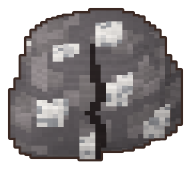
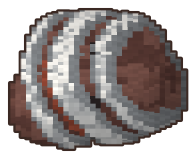
Ore nodes redrawn: no speckled stone (the look of block games' ores)
Each ore is a rounded boulder with its ore growing out of it in big shapes of its own: copper in fat
bunched nodules on sandstone, iron as a vein of metal ribs across rust-stained rock, lumen crystal as
a cluster of glowing prisms bursting from slate, obsidian as glossy black glass shards with violet
edges on a basalt bed. Nuggets to match; chips take the new rock colours.

Claude-Session: https://claude.ai/code/session_01HANmFDddYbzo6K9KzGZmoK

diff --git a/flutter/lib/features/village/mining.dart b/flutter/lib/features/village/mining.dart
@@ -27,16 +27,16 @@ const oreTier = {'copper': 1, 'iron': 2, 'lumen': 3, 'obsidian': 4};
 
 /// The rock's colours (chips) and the ore's (sparks of it), per ore.
 const _stone = {
-  'copper': [Color(0xFF8E8A86), Color(0xFF7B7773), Color(0xFFA39E98)],
-  'iron': [Color(0xFF7D7A80), Color(0xFF6B6870), Color(0xFF8F8B93)],
-  'lumen': [Color(0xFF6E6A78), Color(0xFF5E5A68), Color(0xFF7F7A8A)],
-  'obsidian': [Color(0xFF4A4550), Color(0xFF3C3742), Color(0xFF57525E)],
+  'copper': [Color(0xFFBFA07C), Color(0xFFAE8F6C), Color(0xFFCCAE8A)], // sandstone
+  'iron': [Color(0xFF6E4A44), Color(0xFF5E3E3A), Color(0xFF7C5650)], // rust-stained
+  'lumen': [Color(0xFF5A5F72), Color(0xFF4E5366), Color(0xFF666B80)], // slate
+  'obsidian': [Color(0xFF3E3A42), Color(0xFF35313A), Color(0xFF47434C)], // basalt
 };
 const _ore = {
   'copper': [Color(0xFFD9844A), Color(0xFFF0A56A)],
-  'iron': [Color(0xFFC9CDD6), Color(0xFFE6E9EF)],
+  'iron': [Color(0xFFB9C0C8), Color(0xFFEEF2F6)],
   'lumen': [Color(0xFF9FF0DA), Color(0xFFD8FFF4)],
-  'obsidian': [Color(0xFF5B3B6E), Color(0xFF9A6BC0)],
+  'obsidian': [Color(0xFF251C2C), Color(0xFF9A6BC0)],
 };
 const oreName = {'copper': 'Copper', 'iron': 'Iron', 'lumen': 'Lumen crystal', 'obsidian': 'Obsidian'};
 

diff --git a/tools/art/mining_art.py b/tools/art/mining_art.py
@@ -42,101 +42,174 @@ def _lump(M, c, half, p=3.0):
     return (np.abs((M.X - cx) / a) ** p + np.abs((M.Y - cy) / b) ** p + np.abs((M.Z - cz) / cc) ** p) < 1.0
 
 
-# where the ore shows on the rock: (x, y, z, size) on its faces toward you and on top
-SEAMS = ((-2.6, 3.6, 3.3, 1.15), (1.2, 4.8, 2.9, 1.0), (3.4, 2.4, 2.6, 0.95), (-0.4, 1.6, 3.9, 0.9), (-3.9, 1.4, 1.9, 0.8),
-         (0.6, 6.6, 0.4, 1.0), (-1.8, 5.9, 1.2, 0.8), (2.9, 4.4, -0.8, 0.85), (-3.4, 4.6, -1.0, 0.75))
-# which seams are gone by each state (knocked out with the chunk, or flown out as nuggets)
-GONE = {0: (), 1: (), 2: (1, 2), 3: tuple(range(len(SEAMS)))}
+def _boulder(M, grow=0.0):
+    """The rock: a few rounded blocks run together, low and wide (never a cube)."""
+    g = 1.0 + grow
+    return ((_lump(M, (0, 2.9, 0), (4.6 * g, 3.0 * g, 4.0 * g), 2.6) | _lump(M, (-2.5, 1.8, 1.3), (2.9 * g, 2.0 * g, 2.7 * g), 2.4) |
+             _lump(M, (2.7, 1.6, -0.6), (2.7 * g, 1.8 * g, 2.9 * g), 2.4)) & (M.Y >= 0))
+
+
+def _cracks(M, rock, stage):
+    """Cracks over the face toward you, from where the head lands (low and to the front)."""
+    X, Y, Z = M.X, M.Y, M.Z
+    lines = [[(-0.2, 5.8), (0.4, 4.4), (-0.3, 3.2), (0.5, 1.8), (0.0, 0.3)]]
+    if stage == 2:
+        lines += [[(0.4, 4.4), (2.4, 3.8), (3.8, 2.4)], [(-0.3, 3.2), (-2.6, 2.6), (-4.0, 1.2)], [(0.5, 1.8), (2.4, 0.8)]]
+    crack = np.zeros(M.m.shape, bool)
+    w = 0.3 if stage == 1 else 0.45
+    for ln in lines:
+        for (x0, y0), (x1, y1) in zip(ln, ln[1:]):
+            t = np.clip(((X - x0) * (x1 - x0) + (Y - y0) * (y1 - y0)) / ((x1 - x0) ** 2 + (y1 - y0) ** 2), 0, 1)
+            crack |= np.hypot(X - (x0 + t * (x1 - x0)), Y - (y0 + t * (y1 - y0))) < w
+    crack &= rock & (Z > 0.5) & (M.m > 0)
+    if stage == 2:
+        M.m[crack & ~np.roll(M.m > 0, -1, 2)] = 0          # the deepest cracks open
+    M.set(crack & (M.m > 0), '#2A2426')
+
+
+def _prism(M, base, d, r, length):
+    """A crystal: a column from [base] along [d] that comes to a point (faceted: a diamond cross-section)."""
+    X, Y, Z = M.X, M.Y, M.Z
+    d = np.asarray(d, float) / np.linalg.norm(d)
+    a = np.cross(d, [0.0, 0.0, 1.0] if abs(d[2]) < 0.9 else [1.0, 0.0, 0.0])
+    a /= np.linalg.norm(a)
+    b = np.cross(d, a)
+    px, py, pz = X - base[0], Y - base[1], Z - base[2]
+    t = px * d[0] + py * d[1] + pz * d[2]
+    u = np.abs(px * a[0] + py * a[1] + pz * a[2])
+    v = np.abs(px * b[0] + py * b[1] + pz * b[2])
+    taper = np.clip((length - t) / (length * 0.32), 0, 1)        # the last third narrows to the tip
+    return (t > -0.4) & (t < length) & (u + v < r * taper + 0.1)
+
+
+def _flake(M, c, n, r, thick=0.32, spin=0.0):
+    """A flake of volcanic glass: a thin angular shard (a diamond outline in its own plane, longer one
+    way), thickest in the middle and sharp at its rim."""
+    X, Y, Z = M.X, M.Y, M.Z
+    n = np.asarray(n, float) / np.linalg.norm(n)
+    a = np.cross(n, [0.0, 1.0, 0.0] if abs(n[1]) < 0.9 else [1.0, 0.0, 0.0])
+    a /= np.linalg.norm(a)
+    b = np.cross(n, a)
+    a, b = a * np.cos(spin) + b * np.sin(spin), b * np.cos(spin) - a * np.sin(spin)
+    px, py, pz = X - c[0], Y - c[1], Z - c[2]
+    h = px * n[0] + py * n[1] + pz * n[2]
+    u = np.abs(px * a[0] + py * a[1] + pz * a[2]) / (r * 1.3)
+    v = np.abs(px * b[0] + py * b[1] + pz * b[2]) / (r * 0.8)
+    q = u + v
+    return (q < 1.0) & (np.abs(h) < thick * (1 - q ** 2) + 0.06), q
+
+
+ROCK = {   # each ore's rock: none of them a grey stone with specks
+    'copper': ['#BFA07C', '#AE8F6C', '#CCAE8A'],          # warm sandstone
+    'iron': ['#6E4A44', '#5E3E3A', '#7C5650'],            # dark, rust-stained
+    'lumen': ['#5A5F72', '#4E5366', '#666B80'],           # slate blue
+    'obsidian': ['#3E3A42', '#35313A', '#47434C'],        # basalt
+}
+COPPER = ['#D9844A', '#C46B34', '#E8945A']
+IRON_SILVER = ['#B9C0C8', '#A3AAB3', '#CDD3DA']
+IRON_RUST = ['#9A4B3A', '#8A4232']
+LUMEN = ['#9FF0DA', '#7FE3C8', '#C8FFEF']
+GLASS = ['#1E1724', '#251C2C', '#2E2338']
 
 
 def ore_node(kind, stage, seed=7):
-    """The node in [stage] (0 whole, 1 chipped, 2 cracked, 3 burst): a chunky boulder of a few rounded
-    blocks, banded, with the ore standing proud of it in clusters (copper with green malachite stains
-    round it, iron in bright blocky chunks, lumen as glowing crystal points, obsidian as glassy shards)."""
-    stone, ore, glow, _ = ORES[kind]
-    M = Model((-7, -1, -7), (7, 11, 7), [], res=3)
+    """The node in [stage] (0 whole, 1 chipped, 2 cracked, 3 burst). The ore is never specks in stone:
+    copper bulges out of sandstone in fat rounded nodules; iron runs through dark rock in bands with
+    bright metal ridges; lumen crystal bursts from the top in a cluster of glowing prisms; obsidian is a
+    heap of glossy black glass flakes with a violet sheen at their edges."""
+    M = Model((-7, -1, -7), (7, 12, 7), [], res=3)
     P = CPainter(M, seed)
     rng = np.random.default_rng(seed)
     X, Y, Z = M.X, M.Y, M.Z
-    rock = (_lump(M, (0, 3.3, 0), (4.6, 3.5, 4.0)) | _lump(M, (-2.4, 2.0, 1.4), (2.9, 2.2, 2.7)) |
-            _lump(M, (2.8, 1.7, -0.8), (2.6, 1.9, 2.8)) | _lump(M, (0.6, 5.7, -0.4), (2.8, 1.6, 2.5))) & (Y >= 0)
+    rock = _boulder(M)
     if stage == 3:
-        rock &= Y < 1.5 + 0.5 * np.sin(X * 1.7) + 0.3 * np.cos(Z * 2.1)      # the stump
-    band = (np.floor(Y * 1.1 + 0.6 * np.sin(X * 0.7 + Z * 0.4)).astype(int) % 3)
-    dark = [stone[1]] + stone[1:2]
-    for k, cols in enumerate((stone, dark, stone)):
-        P.fill(rock & (band == k), cols, cell=(1.0, 0.67, 1.0))
+        rock &= Y < 1.4 + 0.5 * np.sin(X * 1.7) + 0.3 * np.cos(Z * 2.1)   # the stump
     if stage == 2:
-        rock &= ~(((X - 3.2) ** 2 + (Y - 6.0) ** 2 + (Z - 2.0) ** 2) < 2.7 ** 2)
-        M.m[~rock] = 0
-    # the ore, proud of the rock
-    for i, (x, y, z, r) in enumerate(SEAMS):
-        if i in GONE[stage] or y > (1.5 if stage == 3 else 99):
-            continue
-        d = np.array([x, y - (3.0 if kind in ('copper', 'iron') else 0.5), z])     # crystals and shards point up and out
-        d = d / np.linalg.norm(d)
-        cx, cy, cz = x + d[0] * 0.35, y + d[1] * 0.35, z + d[2] * 0.35
-        if kind == 'copper':                                   # rounded nodules
-            blob = ((X - cx) ** 2 + (Y - cy) ** 2 + (Z - cz) ** 2) < r ** 2
-            blob |= ((X - cx - 0.5 * r) ** 2 + (Y - cy + 0.3 * r) ** 2 + (Z - cz) ** 2) < (0.6 * r) ** 2
-            stain = (((X - cx) ** 2 + (Y - cy) ** 2 + (Z - cz) ** 2) < (r + 0.6) ** 2) & rock & (rng.random(M.m.shape) < 0.2)
-            P.fill(stain & (M.m > 0), ['#3E9E6E', '#57B784', '#4C8F67'], cell=0.34)
-        elif kind == 'iron':                                   # blocky chunks
-            blob = (np.abs(X - cx) < r * 0.8) & (np.abs(Y - cy) < r * 0.7) & (np.abs(Z - cz) < r * 0.8)
-            blob |= (np.abs(X - cx - 0.6 * r) < r * 0.45) & (np.abs(Y - cy - 0.5 * r) < r * 0.45) & (np.abs(Z - cz) < r * 0.5)
-        else:                                                  # crystal points / glass shards, along the way out
-            t = (X - x) * d[0] + (Y - y) * d[1] + (Z - z) * d[2]
-            perp = np.sqrt(np.maximum((X - x) ** 2 + (Y - y) ** 2 + (Z - z) ** 2 - t ** 2, 0))
-            ln = r * (2.9 if kind == 'lumen' else 2.5)
-            blob = (t > -0.6) & (t < ln) & (perp < r * 0.7 * (1 - np.clip(t / ln, 0, 1) ** 1.4) + 0.15)
-            if kind == 'obsidian':
-                blob &= (np.abs((X - x) * d[2] - (Z - z) * d[0]) < r * 0.6)    # flat, like a flake
-        if glow:
-            P.fill(blob, ore, glow=glow, cell=0.34)
-        else:
-            P.fill(blob, ore, cell=0.34)
-        hi = blob & ~np.roll(blob, -1, 1)                      # the top of each piece catches the light
-        M.set(hi & (rng.random(M.m.shape) < 0.5), ore[2])
+        rock &= ~(((X - 3.0) ** 2 + (Y - 4.6) ** 2 + (Z - 2.0) ** 2) < 2.4 ** 2)   # a chunk knocked off
+    band = np.floor(Y * 1.0 + 0.5 * np.sin(X * 0.6 + Z * 0.4)).astype(int) % 2
+    P.fill(rock & (band == 0), ROCK[kind], cell=(1.0, 0.67, 1.0))
+    P.fill(rock & (band == 1), ROCK[kind][1:] + ROCK[kind][1:], cell=(1.0, 0.67, 1.0))
+    keep = (lambda i: True) if stage < 2 else (lambda i: i % 3 != 1) if stage == 2 else (lambda i: False)
+    if kind == 'copper':
+        nods = ((-2.5, 3.2, 2.9, 1.9), (1.5, 4.7, 2.4, 1.7), (3.6, 2.0, 2.7, 1.5), (-0.4, 1.5, 3.9, 1.4), (0.4, 5.9, -0.4, 1.8),
+                (-3.9, 3.8, -1.2, 1.4), (3.2, 4.2, -1.9, 1.3), (-1.2, 5.6, 1.4, 1.2))
+        for i, (x, y, z, r) in enumerate(nods):
+            if not keep(i):
+                continue
+            blob = ((X - x) ** 2 + (Y - y) ** 2 + (Z - z) ** 2) < r ** 2
+            blob |= ((X - x - 0.6 * r) ** 2 + (Y - y + 0.35 * r) ** 2 + (Z - z + 0.2) ** 2) < (0.62 * r) ** 2   # bunched, like grapes
+            blob |= ((X - x + 0.5 * r) ** 2 + (Y - y - 0.4 * r) ** 2 + (Z - z + 0.3) ** 2) < (0.55 * r) ** 2
+            P.fill(blob & (M.m == 0) | blob & rock, COPPER, cell=0.34)
+            top = blob & ~np.roll(blob, -1, 1)
+            M.set(top & (rng.random(M.m.shape) < 0.6), '#FFC48E')            # sun on their tops
+            M.set(blob & ~np.roll(blob, 1, 1) & (Y > 0.4), '#8A4420')         # dark undersides
+    elif kind == 'iron':   # a vein of metal running across the rock, standing proud of it in thick ribs
+        out = _boulder(M, 0.12) & (Y >= 0)
+        if stage == 3:
+            out &= Y < 1.7
+        if stage == 2:
+            out &= ~(((X - 3.0) ** 2 + (Y - 4.6) ** 2 + (Z - 2.0) ** 2) < 2.6 ** 2)
+        n = np.array([0.75, 0.6, 0.28]) / np.linalg.norm([0.75, 0.6, 0.28])
+        dd = X * n[0] + (Y - 3.0) * n[1] + Z * n[2]
+        for c, w in ((-1.6, 0.55), (0.6, 0.75), (2.6, 0.45)):
+            rib = out & (np.abs(dd - c) < w)
+            P.fill(rib, IRON_SILVER, cell=0.5)
+            M.set(rib & ~np.roll(rib, -1, 1) & (rng.random(M.m.shape) < 0.6), '#EEF2F6')   # catching the light
+            M.set(rib & (np.abs(dd - c) > w - 0.2), '#7E858E')                             # its darker edges
+        P.fill(rock & (np.abs(dd + 0.5) < 0.3) & ~np.roll(rock, -1, 2), IRON_RUST, cell=0.67)   # rust weeping between
+    elif kind == 'lumen':
+        crown = ((0.0, 4.6, 0.2, (0.0, 1.0, 0.15), 1.1, 5.2), (-1.4, 4.2, 0.9, (-0.45, 1.0, 0.3), 0.9, 4.0), (1.5, 4.3, 0.6, (0.5, 1.0, 0.2), 0.95, 4.3),
+                 (0.3, 4.2, -1.3, (0.1, 1.0, -0.45), 0.8, 3.4), (-0.6, 4.0, 2.0, (-0.1, 0.8, 0.7), 0.75, 2.9), (2.6, 3.2, 2.0, (0.7, 0.6, 0.6), 0.6, 2.2),
+                 (-3.0, 2.6, 1.8, (-0.8, 0.5, 0.5), 0.55, 1.9))
+        hole = ((X ** 2) / 2.6 ** 2 + ((Y - 5.4) ** 2) / 1.6 ** 2 + (Z ** 2) / 2.2 ** 2 < 1.0)  # the top cracked open round the cluster
+        M.m[hole & rock & (Y > 4.6)] = 0
+        for i, (x, y, z, d, r, ln) in enumerate(crown):
+            if not keep(i):
+                continue
+            cr = _prism(M, (x, y, z), d, r, ln * (0.55 if stage == 2 and i == 0 else 1.0))
+            P.fill(cr & (M.m == 0), LUMEN, glow=0.9, cell=0.34)
+            M.set(cr & (np.abs((X - x) + (Z - z) * 0.6) < 0.25), '#E8FFF8', glow=1.0)   # a bright facet edge
+    else:   # obsidian: a low basalt bed under a heap of big glass shards leaning every way
+        M.m[rock & (Y > 2.4 + 0.4 * np.sin(X * 0.9))] = 0
+        flakes = ((-1.8, 3.8, 1.2, (-0.6, 0.35, 1.0), 3.0, 0.3), (1.9, 4.4, 0.6, (0.8, 0.4, 0.9), 2.9, 1.2), (0.0, 5.0, -1.4, (0.1, 0.45, 1.0), 3.2, 0.0),
+                  (-0.2, 2.6, 3.0, (0.25, 0.3, 1.0), 2.2, 0.7))
+        for i, (x, y, z, n, r, sp) in enumerate(flakes):
+            if not keep(i):
+                continue
+            fl, q = _flake(M, (x, y, z), n, r, 0.42, sp)
+            fl &= Y >= 0
+            P.fill(fl, [GLASS[i % 3]], cell=1.0)                                 # each shard one smooth glass
+            M.set(fl & (q > 0.86), '#9A6BC0')                                  # violet sheen at the rim
+            M.set(fl & (q < 0.5) & (q > 0.3) & (np.abs(X - x - (Y - y) * 0.6) < 0.35), '#6E4A86')   # a gleam across its face
     if stage in (1, 2):
-        # cracks run over the face toward you, from where the head lands (low and to the front)
-        lines = [[(-0.2, 6.6), (0.4, 5.0), (-0.3, 3.8), (0.5, 2.4), (0.0, 0.4)]]
-        if stage == 2:
-            lines += [[(0.4, 5.0), (2.4, 4.4), (3.8, 3.0)], [(-0.3, 3.8), (-2.6, 3.2), (-4.0, 1.6)], [(0.5, 2.4), (2.4, 1.0)]]
-        crack = np.zeros(M.m.shape, bool)
-        w = 0.3 if stage == 1 else 0.45
-        for ln in lines:
-            for (x0, y0), (x1, y1) in zip(ln, ln[1:]):
-                t = np.clip(((X - x0) * (x1 - x0) + (Y - y0) * (y1 - y0)) / ((x1 - x0) ** 2 + (y1 - y0) ** 2), 0, 1)
-                d = np.hypot(X - (x0 + t * (x1 - x0)), Y - (y0 + t * (y1 - y0)))
-                crack |= d < w
-        crack &= (M.m > 0) & (Z > 0.5)
-        surf = crack & ~np.roll(M.m > 0, -1, 2)
-        if stage == 2:
-            M.m[surf] = 0                                       # the deepest cracks open
-        M.set(crack & (M.m > 0), '#2A2426')
+        _cracks(M, rock, stage)
     if stage == 3:
         for (x, y, z, r) in ((-4.6, 0.5, -1.0, 0.7), (4.8, 0.5, 0.4, 0.6), (2.0, 0.4, -3.6, 0.6), (-2.2, 0.4, 3.8, 0.6), (3.6, 0.4, 3.2, 0.5)):
-            M.set(((X - x) ** 2 + (Y - y) ** 2 + (Z - z) ** 2) < r ** 2, stone[1])
+            M.set(((X - x) ** 2 + (Y - y) ** 2 + (Z - z) ** 2) < r ** 2, ROCK[kind][1])
     return M
 
 
 def nugget(kind, seed=3):
-    """One piece of ore, lumpy, a little stone still on it."""
-    stone, ore, glow, _ = ORES[kind]
-    M = Model((-2, -1, -2), (2, 3, 2), [], res=4)
+    """The piece that pops out: a bunched copper nodule, a banded iron chunk, one lumen prism, a glass flake."""
+    M = Model((-2.5, -1, -2.5), (2.5, 4, 2.5), [], res=4)
     P = CPainter(M, seed)
     X, Y, Z = M.X, M.Y, M.Z
-    n = np.sin(X * 3.1) * np.cos(Z * 2.7 + 0.4) * 0.12
-    body = ((X / 1.3) ** 2 + ((Y - 0.9) / 0.95) ** 2 + (Z / 1.1) ** 2 + n) < 1.0
-    if kind in ('lumen', 'obsidian'):                         # crystal and glass: faceted, pointed
-        body = (np.abs(X) * 0.9 + np.abs(Z) * 0.9 + np.abs(Y - 0.9) * 0.7 < 1.25) & (Y >= -0.1)
-    if glow:
-        P.fill(body, ore, glow=glow, cell=0.5)
+    if kind == 'copper':
+        b = (((X ** 2 + (Y - 0.9) ** 2 + Z ** 2) < 1.0) | (((X - 0.6) ** 2 + (Y - 0.6) ** 2 + (Z - 0.2) ** 2) < 0.55) |
+             (((X + 0.5) ** 2 + (Y - 1.3) ** 2 + (Z + 0.2) ** 2) < 0.45))
+        P.fill(b, COPPER, cell=0.25)
+        M.set(b & ~np.roll(b, -1, 1), '#FFC48E')
+    elif kind == 'iron':
+        b = (np.abs(X) < 1.1) & (np.abs(Y - 0.8) < 0.8) & (np.abs(Z) < 0.9) & (np.abs(X) + np.abs(Z) < 1.6)
+        P.fill(b & (np.floor((Y + 0.2 * X) / 0.5).astype(int) % 2 == 0), IRON_SILVER, cell=0.25)
+        P.fill(b & (M.m == 0), IRON_RUST, cell=0.25)
+    elif kind == 'lumen':
+        b = _prism(M, (0, 0, 0), (0.15, 1.0, 0.1), 0.75, 3.0)
+        P.fill(b, LUMEN, glow=0.9, cell=0.25)
     else:
-        P.fill(body, ore, cell=0.5)
-    if kind in ('copper', 'iron'):
-        rng = np.random.default_rng(seed)
-        P.fill(body & (rng.random(M.m.shape) < 0.12) & (Y < 0.9), stone, cell=0.5)
+        b, q = _flake(M, (0, 1.2, 0), (0.35, 0.55, 0.9), 1.4, 0.45, 0.9)
+        P.fill(b, GLASS, cell=0.25)
+        M.set(b & (q > 0.75), '#9A6BC0')
     return M
 
 
